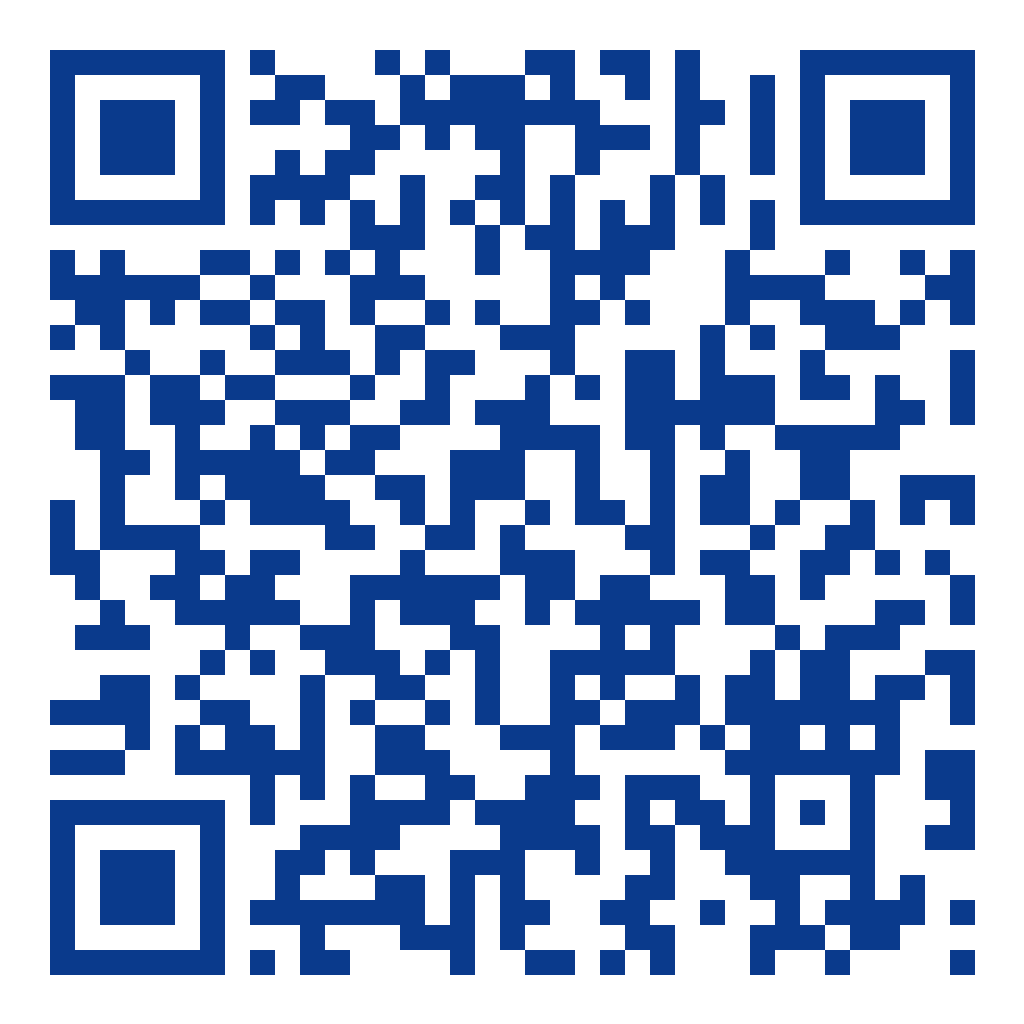
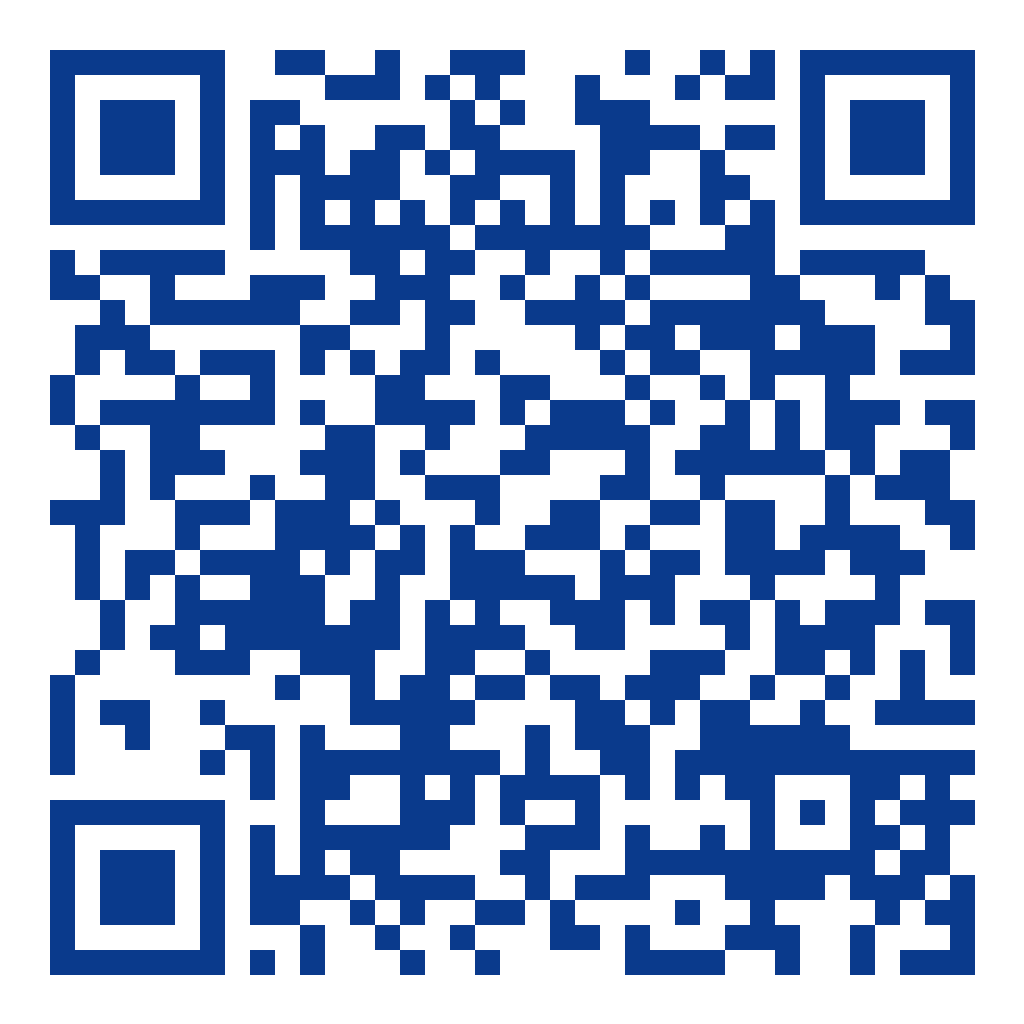
Giữ nguyên mã QR cũ (khôi phục ảnh QR/poster), QR trang giáo viên khớp poster, ẩn dòng link

diff --git a/index.html b/index.html
@@ -392,7 +392,7 @@ footer{text-align:center;color:var(--muted);font-size:13px;margin-top:44px}
         </div>
       </div>
       <div class="beam" aria-hidden="true"></div>
-      <div class="url" id="joinUrl"></div>
+      <div class="url" id="joinUrl" style="display:none"></div>
       <div class="modes" role="group" aria-label="Chế độ chơi">
         <button class="mode" type="button" data-mode="free" aria-pressed="true">
           <span class="t">🗺 Tự do</span><span class="d">Chơi tuần tự 7 ải ngay trên điện thoại.</span>
@@ -539,7 +539,7 @@ footer{text-align:center;color:var(--muted);font-size:13px;margin-top:44px}
   var BASE = normBase(lsGet(LS_BASE)) || defaultBase;
   var MODE = lsGet(LS_MODE) === 'station' ? 'station' : 'free';
 
-  function joinLink(){ return BASE + 'play.html?mode=' + MODE; }   // game tự vào phiên mặc định
+  function joinLink(){ return BASE + 'play.html?mode=' + MODE + '&room=' + ROOM; }   // khớp mã QR đã in trên poster
   function stationLink(L){ return BASE + 'play.html?key=' + encodeURIComponent(L.key); }
 
   function makeQR(el, text, size){
